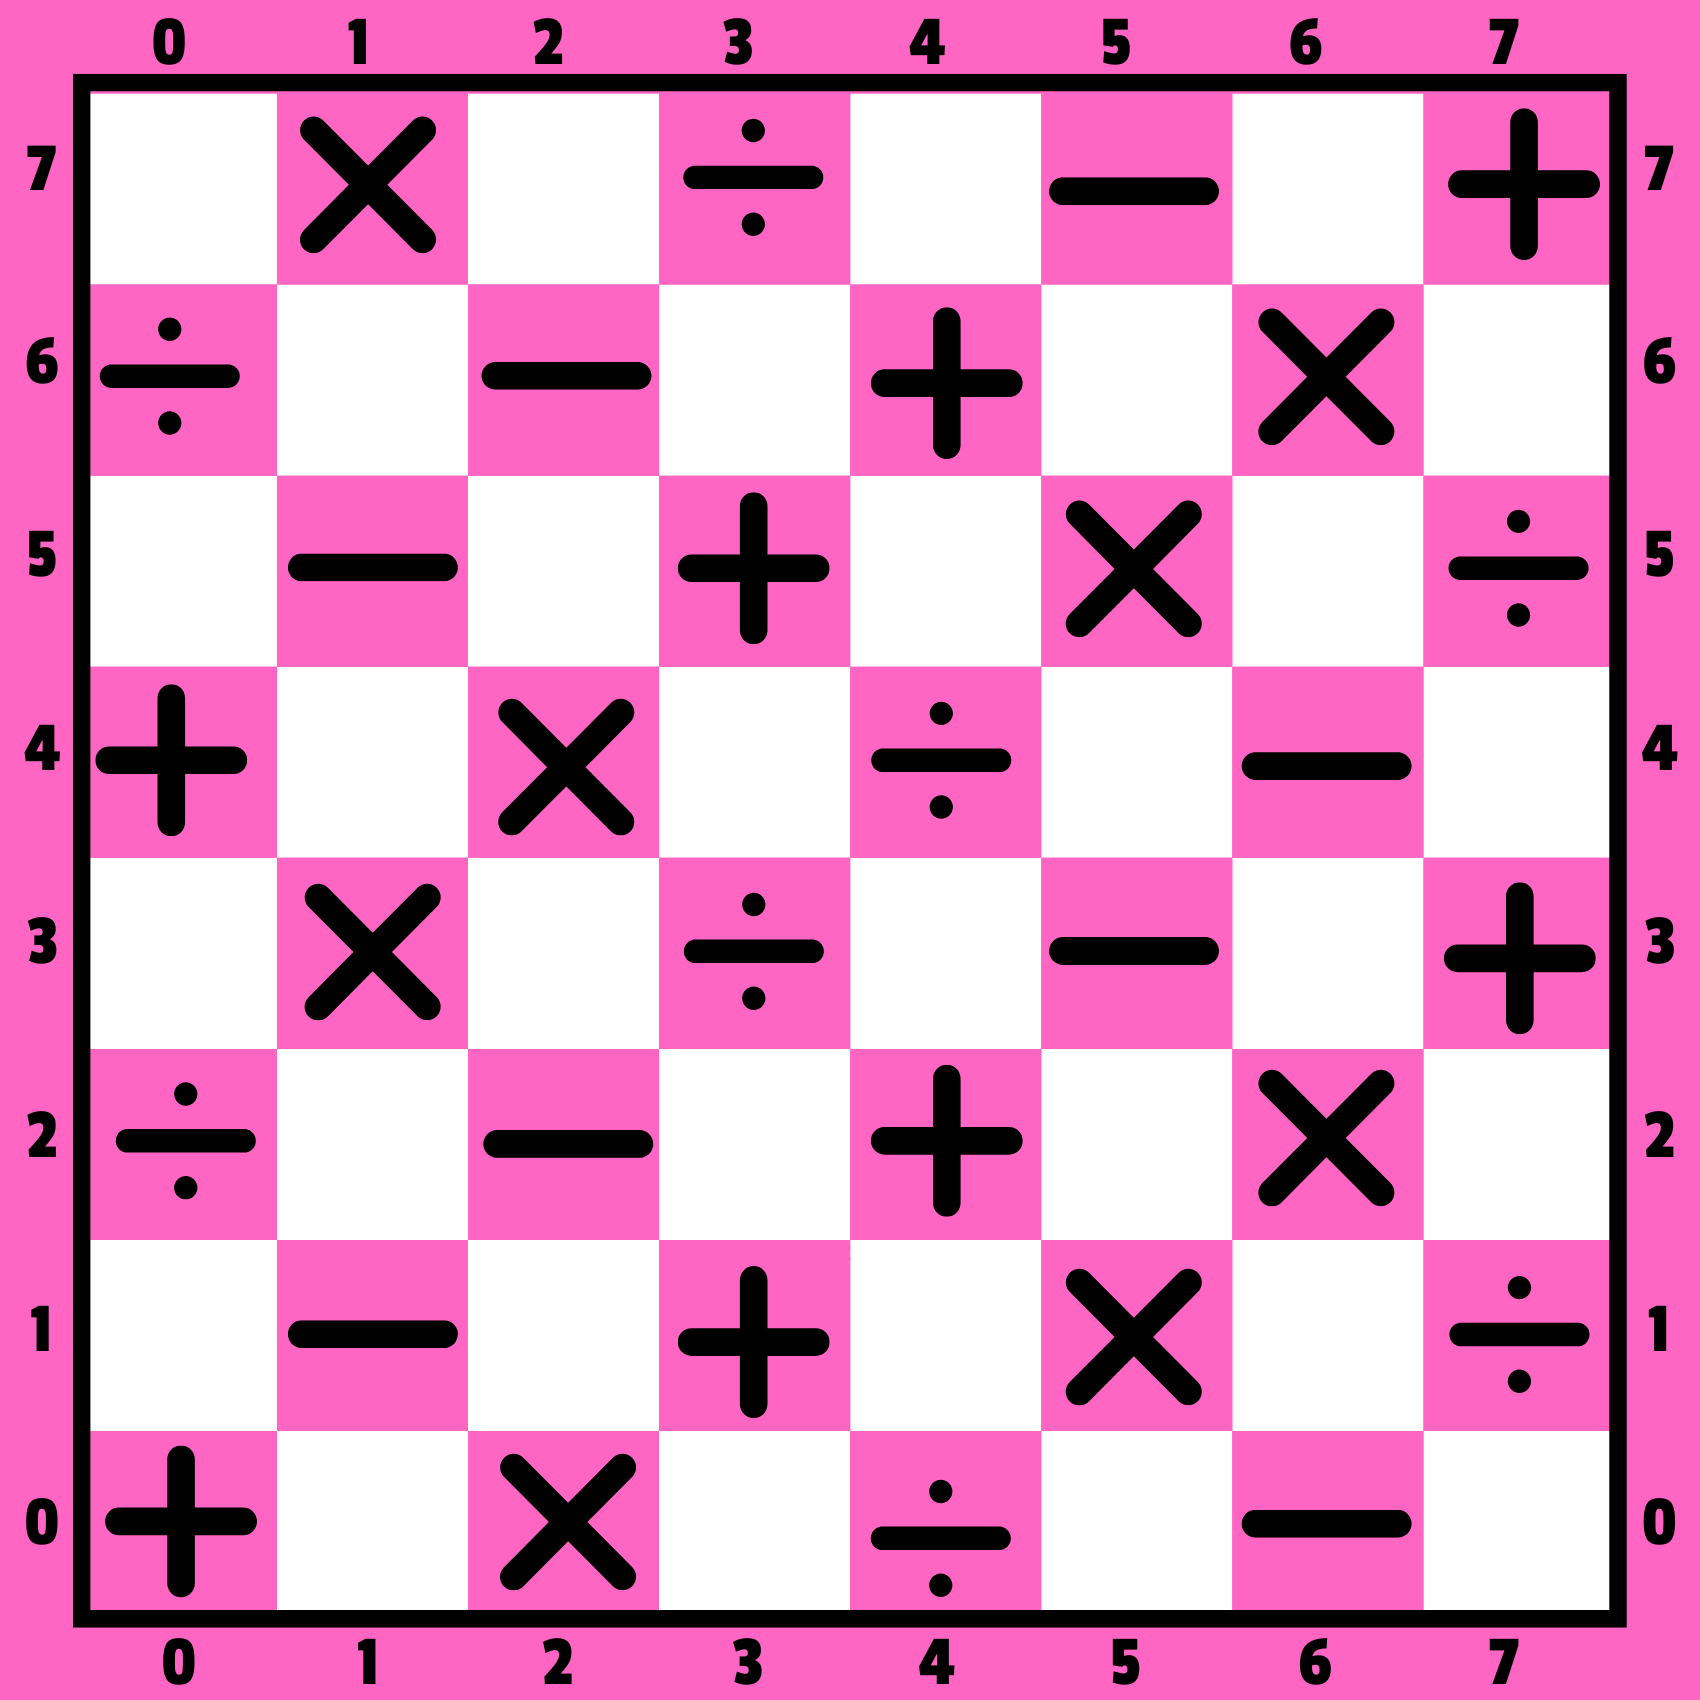
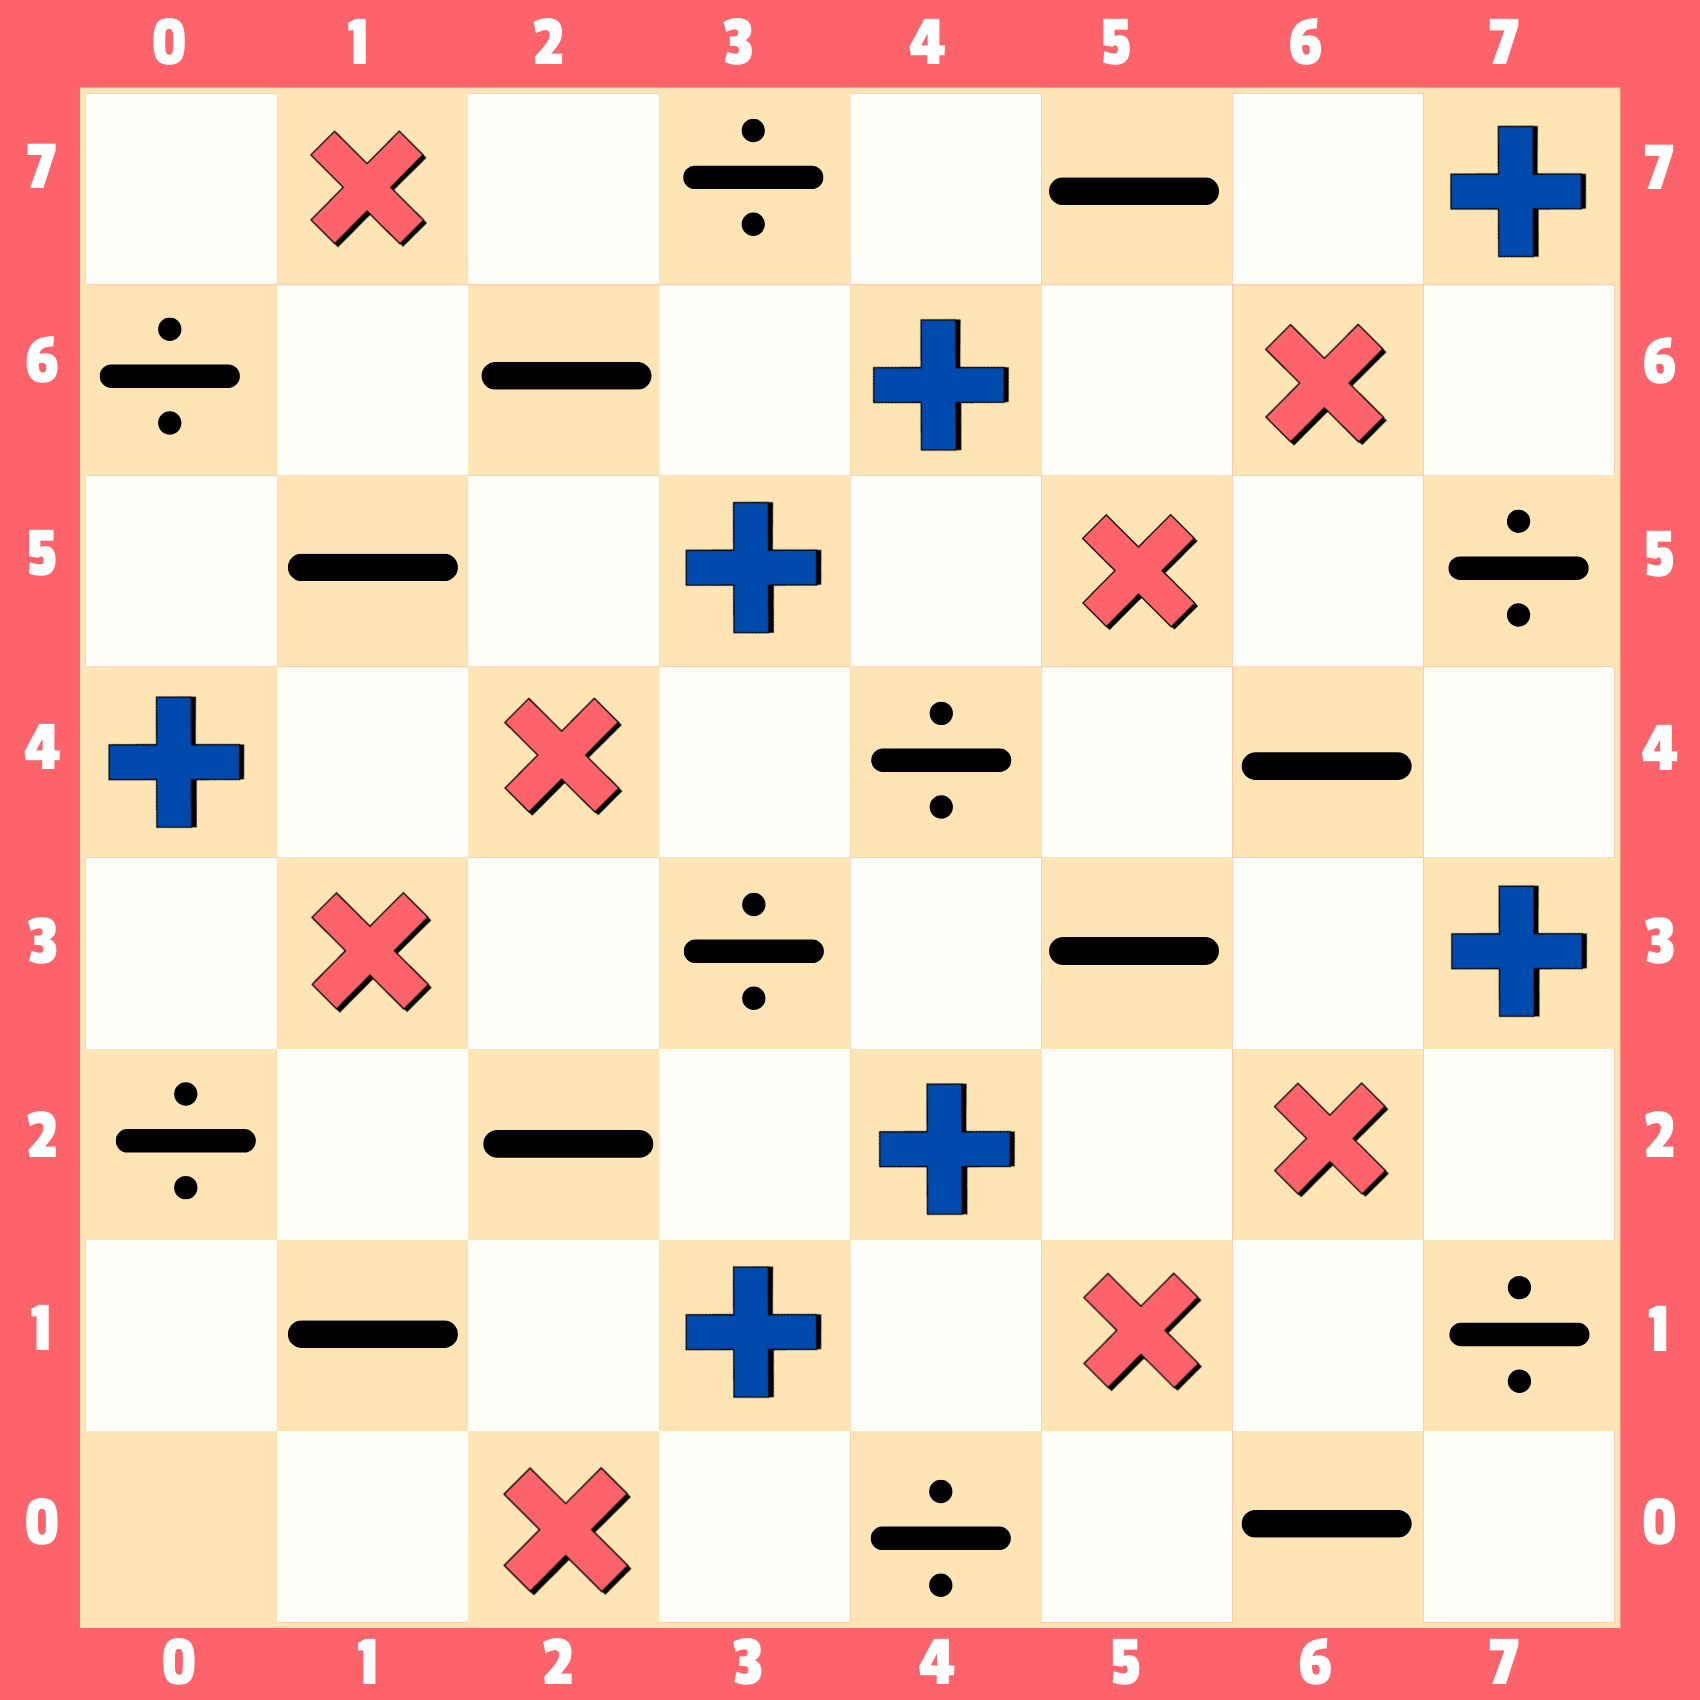
added transition in start game
> added more board themes

diff --git a/main.py b/main.py
@@ -2,7 +2,7 @@ import pygame, sys, random
 
 from damath.constants import BOARD_WIDTH, BOARD_HEIGHT, BLACK, WHITE, SQUARE_SIZE, RED, LIGHT_BLUE, \
 SCOREBOARD_WIDTH, SCOREBOARD_HEIGHT, SCOREBOARD_COLOR, BOARD_BLACK, OFFSET, BOARD_OFFSET, BOARD_BROWN, BOARD_GREEN, BOARD_LIGHTBROWN, \
-BOARD_BROWN_2, BOARD_BROWN_3, BOARD_BLUE, BOARD_PINK, BLUE_PIECE, RED_PIECE, BLUE_PIECE_KING, RED_PIECE_KING
+BOARD_BROWN_2, BOARD_BROWN_3, BOARD_BLUE, BOARD_PINK, BLUE_PIECE, RED_PIECE, BLUE_PIECE_KING, RED_PIECE_KING, BOARD_RED
 from ui_class.constants import START_BTN_DIMENSION, START_BTN_POSITION
 from display_constants import SCREEN_WIDTH, SCREEN_HEIGHT, LOGO, TITLE, BG_COLOR, TITLE_BG, CLEAR_BG
 from ui_class.button import Button
@@ -192,7 +192,7 @@ return_btn = Button(screen, 70, 70, (20, 20), 4, image=return_img, image_size=RE
 themes = ThemesList(screen)
 
 BOARDS = [BOARD_BLACK, BOARD_GREEN, BOARD_BROWN, BOARD_LIGHTBROWN,
-          BOARD_PINK, BOARD_BROWN_2, BOARD_BROWN_3, BOARD_BLUE]
+          BOARD_PINK, BOARD_BROWN_2, BOARD_BROWN_3, BOARD_BLUE, BOARD_RED]
 
 for idx, board in enumerate(BOARDS):
     themes.append(Themes(screen, board, idx))
@@ -230,13 +230,73 @@ quit_btn = Button(screen, 250, 50, (SCREEN_WIDTH//1.5, SCREEN_HEIGHT//1.5-40), 5
 # sliders
 music_slider = pygame.transform.smoothscale(BLUE_PIECE_KING, (50, 50))
 
+# --------- transition objects ---------
+# --------- instantiating Transition objects ---------
+transition_in_list = []
 
+for i in range(50):
+    if i < 10:
+        frame =  pygame.image.load(f'assets/anim_transition_in/000{i}.png')
+    else:
+        frame = pygame.image.load(f'assets/anim_transition_in/00{i}.png')
+
+    transition_in_list.append(frame)
+
+
+transition_out_list = []
+
+for i in range(37):
+
+    frame =  pygame.image.load(f'assets/anim_transition_out/00{i+50}.png')
+    transition_out_list.append(frame)
+
+# --------- Transition class ---------
+class Transition:
+    def __init__(self, screen, transition_list):
+        self.screen = screen
+        self.transition = transition_list
+        self.frame = 0
+        self.finished = False
+    
+    def play(self):
+        if self.frame == len(self.transition)-1:
+            self.finished = True
+        else:
+            self.frame += 1
+
+        self.screen.blit(self.transition[self.frame], (0, 0))
+
+    def reset(self):
+        self.frame = 0
+        self.finished = False
+    
+    def get_finished(self):
+        return self.finished
+
+transition_in = Transition(screen, transition_in_list)
+transition_out = Transition(screen, transition_out_list)
+
+def full_trans_play():
+
+    if not transition_in.get_finished():
+        transition_in.play()
+    else:
+        transition_out.play()
+
+def full_trans_reset():
+
+    transition_in.reset()
+    transition_out.reset()
+
+def full_trans_is_finished():
+    return (transition_in.get_finished() and transition_out.get_finished())
 
 # --------- main function ---------
 # (Main Menu)
 def main_menu() :
 
     game.reset()
+    main_play_trans = False
 
     while True:
         #screen.fill(BG_COLOR) # window color
@@ -251,8 +311,10 @@ def main_menu() :
         # button hover effect
         # if the cursor is inside the button
         if start_btn.top_rect.collidepoint((current_mouse_x, current_mouse_y)):
+            start_btn.hover_update()
             option_btn.reset() 
-            start_btn.hover_update(start_game)
+            if pygame.mouse.get_pressed()[0]:
+                main_play_trans = True
         elif option_btn.top_rect.collidepoint((current_mouse_x, current_mouse_y)):
             start_btn.reset()
             option_btn.hover_update(options_menu, param='main')
@@ -264,10 +326,16 @@ def main_menu() :
             if event.type == pygame.QUIT:
                 pygame.quit()
                 sys.exit()   
-                
+        
         start_btn.draw()
         option_btn.display_image()
         screen.blit(TITLE, (SCREEN_WIDTH//2-(TITLE.get_width()//2), SCREEN_HEIGHT//2-(TITLE.get_height()//(1.25))))
+
+        if main_play_trans:
+            transition_in.play()
+            if transition_in.get_finished():
+                start_game()
+
         pygame.display.update()
         clock.tick(FPS)
 
@@ -339,15 +407,13 @@ def pause():
 # (when Start button is pressed)
 def start_game():
 
+    full_trans_reset()
     running = True
     
     while running:
-        screen.fill(BG_COLOR)
-        screen.blit(CLEAR_BG, (0, 0))
-        
-        screen.blit(board_surface, (board_rect.x, board_rect.y))     
-        screen.blit(scoreboard_surface, (scoreboard_rect.x, scoreboard_rect.y)) 
 
+        screen.blit(CLEAR_BG, (0, 0))     
+        
         if game.winner() != None:
             print(game.winner()) 
             running = False
@@ -421,10 +487,16 @@ def start_game():
                                 pygame.mixer.music.play()
                         game.select(row, col)
 
+        screen.blit(board_surface, (board_rect.x, board_rect.y))     
+        screen.blit(scoreboard_surface, (scoreboard_rect.x, scoreboard_rect.y)) 
+        return_btn.display_image() 
+
+        transition_out.play()    
+
         scoreboard.draw()
-        return_btn.display_image()     
         game.board.update_theme(themes.list[themes.focused].board)
         game.update()
+
         clock.tick(60)
  
 # --------- options menu function ---------

diff --git a/ui_class/button.py b/ui_class/button.py
@@ -86,7 +86,7 @@ class Button:
             pygame.mixer.music.load("audio/pop.wav")
             pygame.mixer.music.play()
 
-    def hover_update(self, func=None, param=None, _fade=True, delay=6):
+    def hover_update(self, func=None, param=None, func2=None, _fade=True, delay=6):
         """
         Updates if mouse hovered or clicked the button
         """
@@ -122,13 +122,12 @@ class Button:
             if self.clicked:
                 self.reset()
                 if func is not None:
-                    if _fade:
-                        fade(self.screen, SCREEN_WIDTH, SCREEN_HEIGHT, delay=self.delay)
                     self.clicked = False
                     if param:
                         func(param)
                     else:
                         func()
+                self.clicked = False # temp
         
     def reset(self):
         """

diff --git a/damath/constants.py b/damath/constants.py
@@ -41,6 +41,7 @@ BOARD_BLUE = pygame.transform.smoothscale(pygame.image.load('assets\\BOARD_BLUE.
 BOARD_BROWN_2 = pygame.transform.smoothscale(pygame.image.load('assets\\BOARD_BROWN-2.png'), (BOARD_WIDTH+BOARD_OFFSET, BOARD_HEIGHT+BOARD_OFFSET))
 BOARD_BROWN_3 = pygame.transform.smoothscale(pygame.image.load('assets\\BOARD_BROWN-3.png'), (BOARD_WIDTH+BOARD_OFFSET, BOARD_HEIGHT+BOARD_OFFSET))
 BOARD_PINK = pygame.transform.smoothscale(pygame.image.load('assets\\BOARD_PINK.png'), (BOARD_WIDTH+BOARD_OFFSET, BOARD_HEIGHT+BOARD_OFFSET))
+BOARD_RED = pygame.transform.smoothscale(pygame.image.load('assets\\BOARD_RED.png'), (BOARD_WIDTH+BOARD_OFFSET, BOARD_HEIGHT+BOARD_OFFSET))
 
 BOARD_W = BOARD_BLACK.get_width()
 BOARD_H = BOARD_BLACK.get_height()
